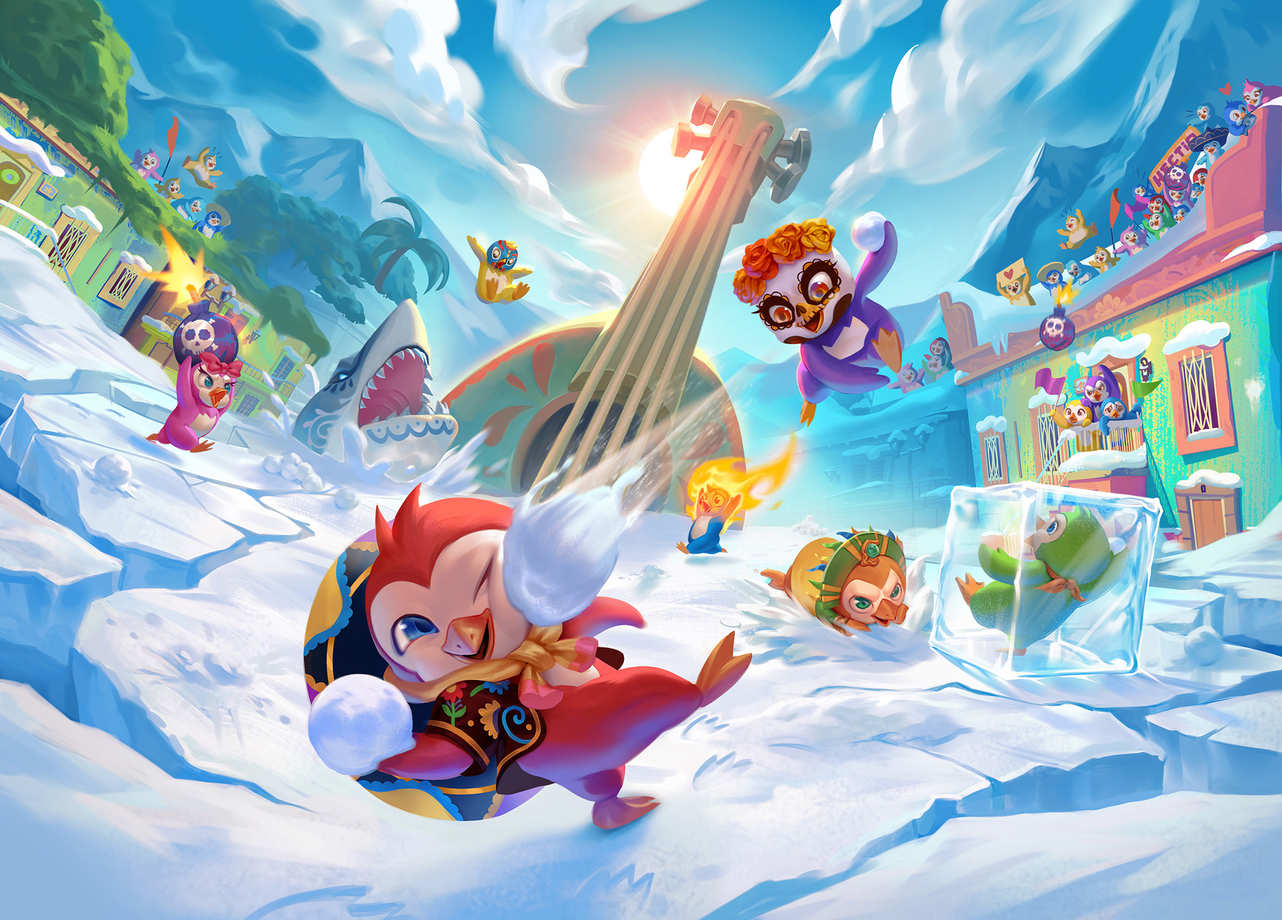
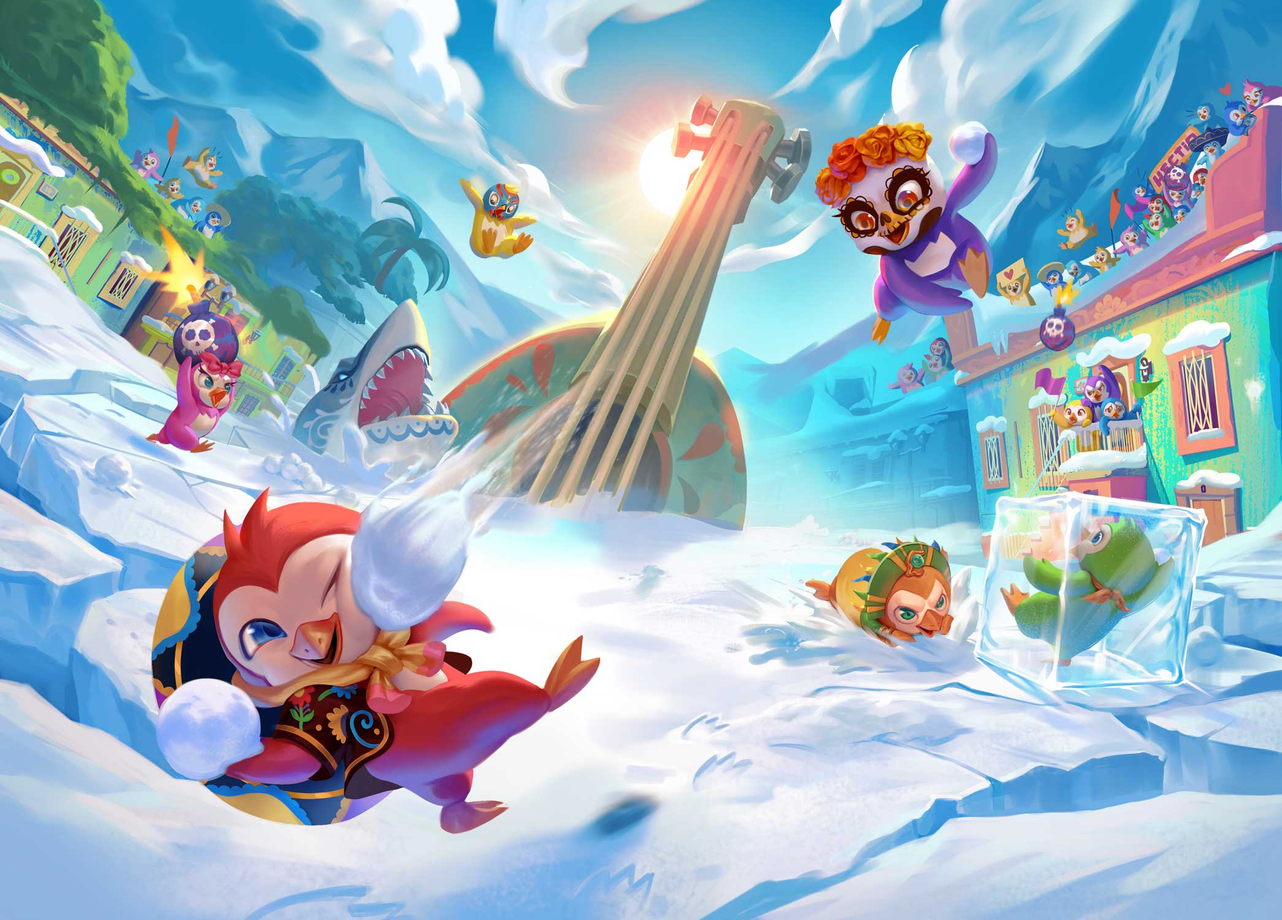
removed cursor changed bg

diff --git a/_layouts/root.html b/_layouts/root.html
@@ -59,7 +59,6 @@
     <script src="{{site.url}}/assets/js/scrollTrigger.min.js"></script>
     <script src="{{site.url}}/assets/js/splitText.min.js"></script>
     <script src="{{site.url}}/assets/js/jquery.appear.js"></script>
-    <script src="{{site.url}}/assets/js/tg-cursor.min.js"></script>
     <script src="{{site.url}}/assets/js/swiper-bundle.js"></script>
     <script src="{{site.url}}/assets/js/jarallax.min.js"></script>
     <script src="{{site.url}}/assets/js/parallax.min.js"></script>

diff --git a/assets/css/main.css b/assets/css/main.css
@@ -10424,7 +10424,7 @@ blockquote p {
 }
 @media (max-width: 767.98px) {
   .iframe-whishlist   {
-    width: 85%;
+    width: 100%;
   }
 }
 
